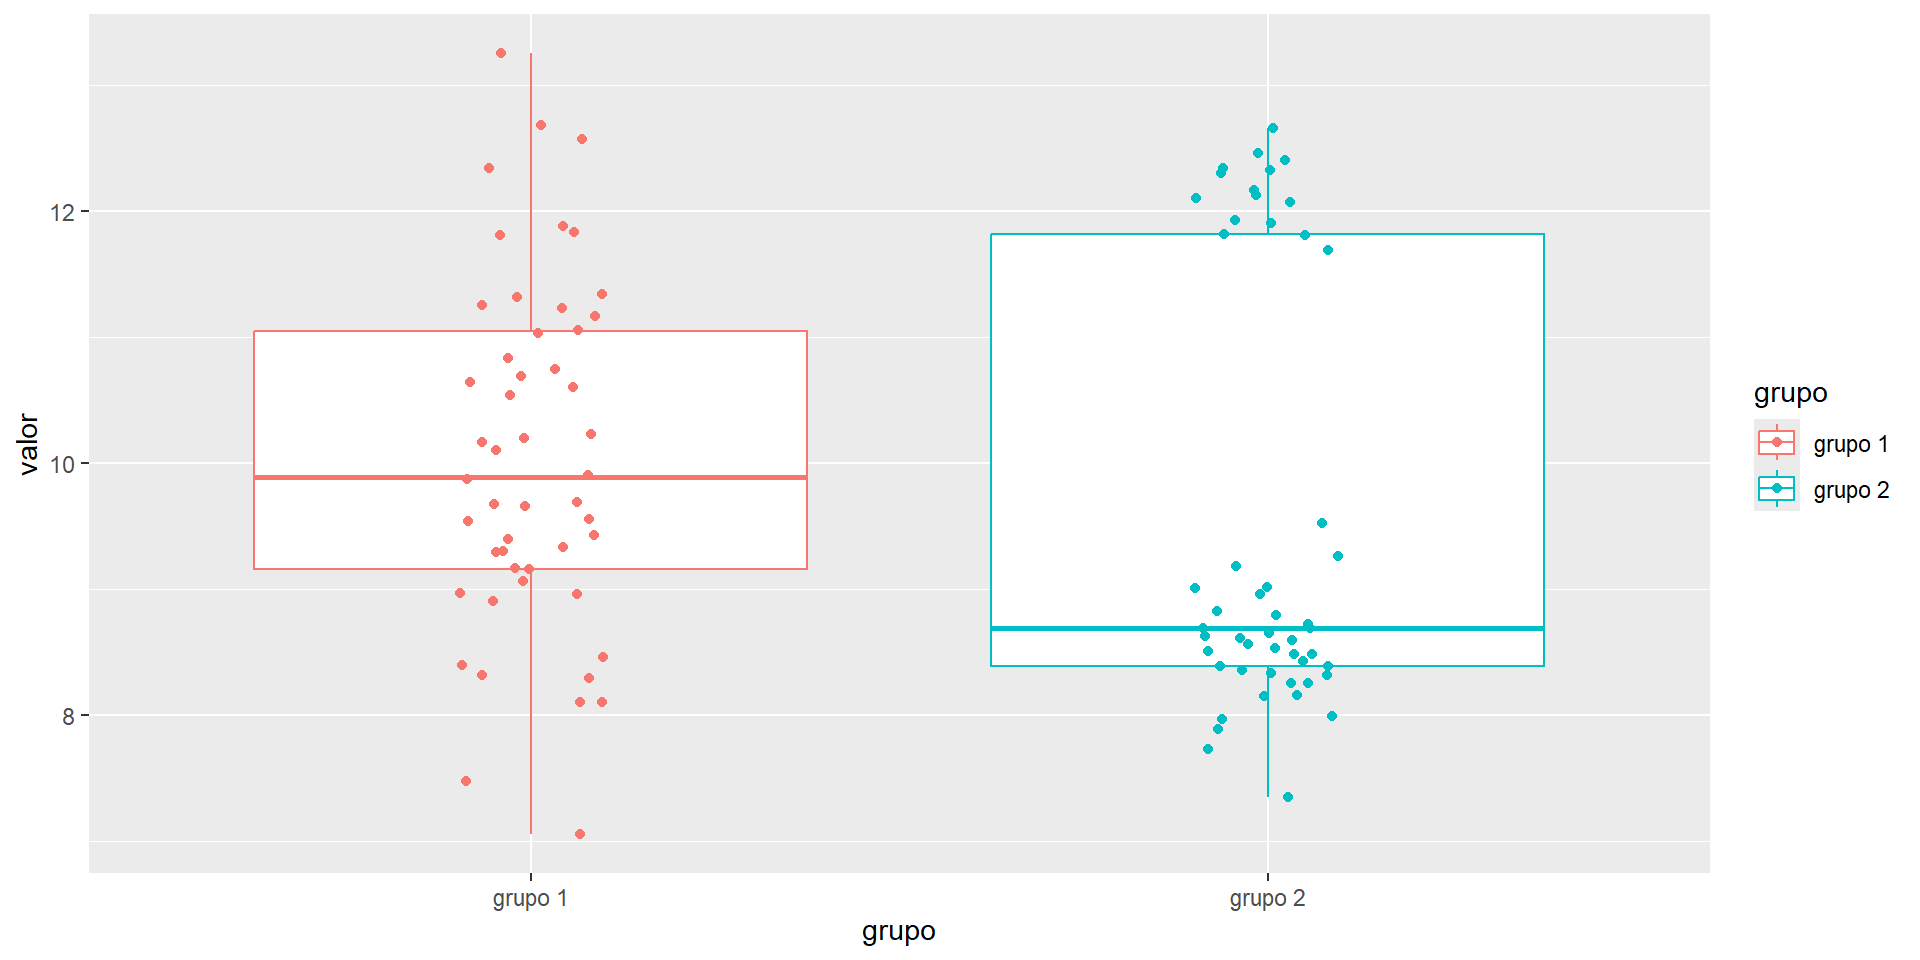
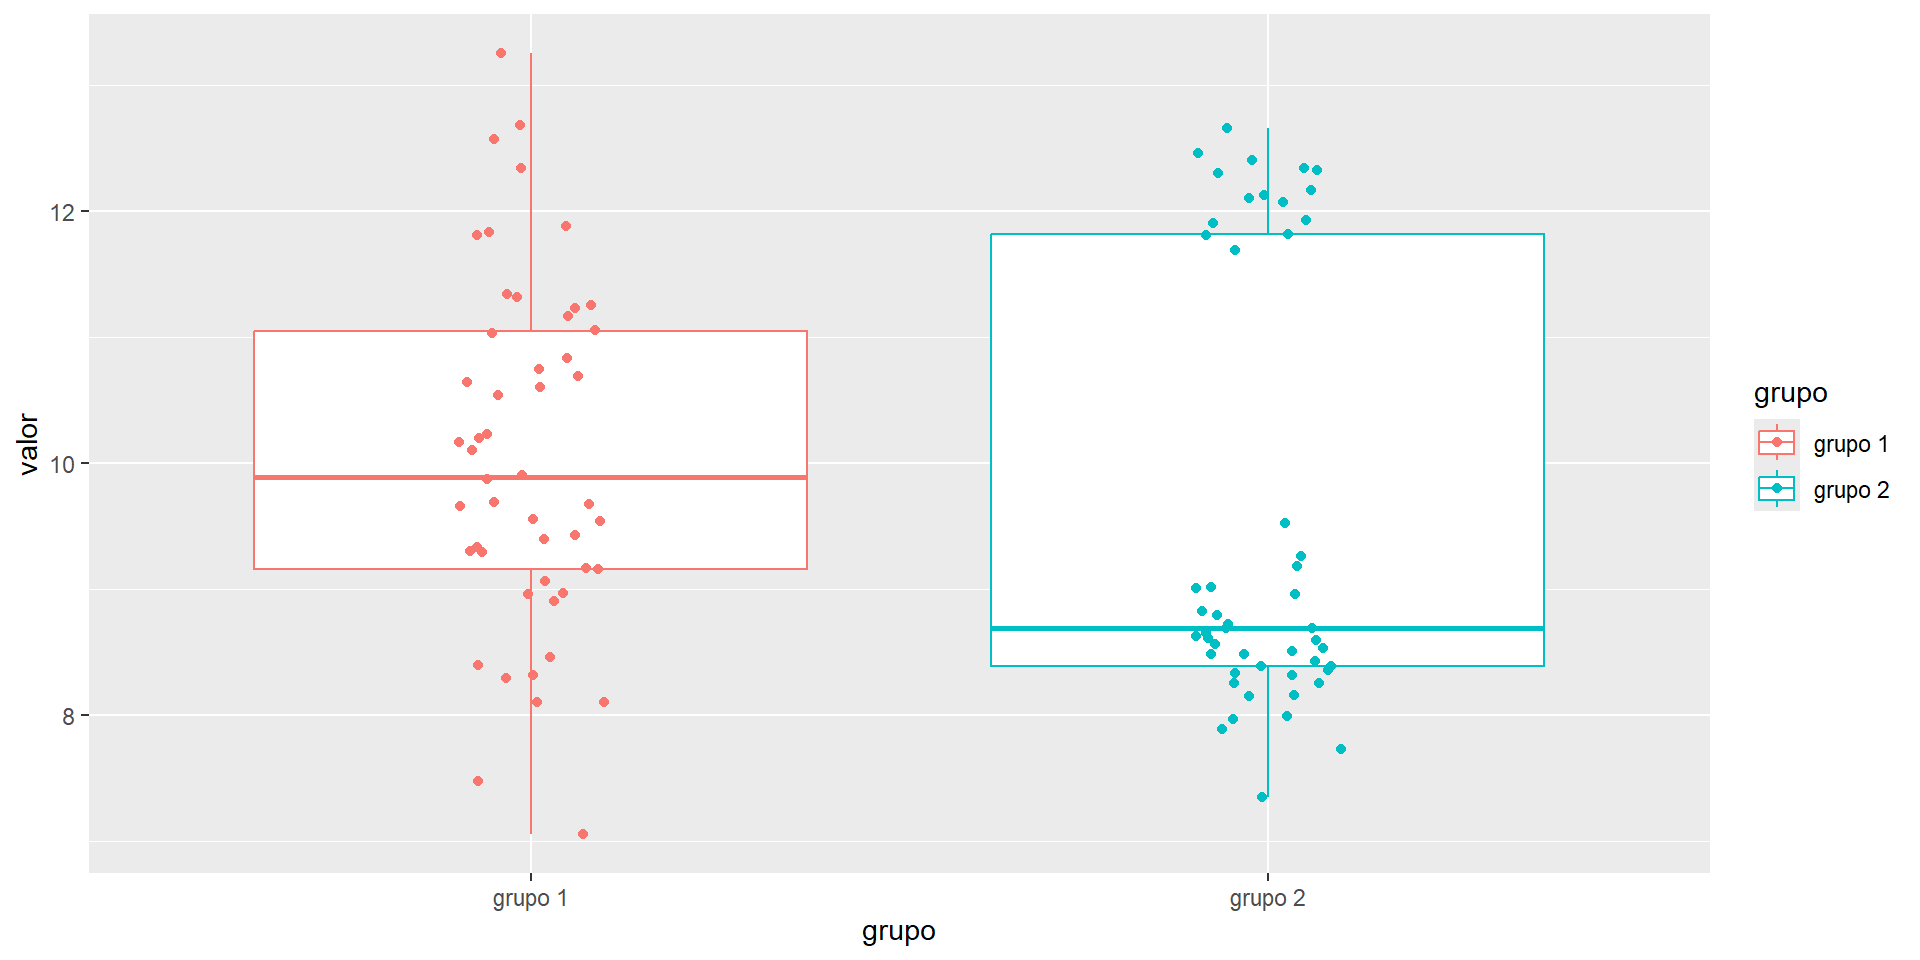
cambio styles en ggplot slides

diff --git a/styles/styles.css b/styles/styles.css
@@ -1,0 +1,293 @@
+
+/*
+CSS for xaringan slides in RU flavor
+Author: Joseph V. Casillas
+Updated: 03/06/2018
+*/
+
+/* Package defaults that we slightly tweak */
+
+a, a > code {
+  color: #cc0033; /* rgb(249, 38, 114) */
+  text-decoration: none;
+}
+
+/* slightly lower and bigger than default */
+.footnote {
+  position: absolute;
+  bottom: 1em;
+  padding-right: 4em;
+  font-size: 95%;
+}
+
+/* important code slightly red */
+.remark-code-line-highlighted {
+  background-color: #FFD3DE !important;
+}
+
+/* color tweak */
+.inverse {
+  background-color: #272822;
+  color: #777872;
+  text-shadow: 0 0 20px #333;
+}
+
+/* slightly spacing change */
+.inverse h1, .inverse h2, .inverse h3 {
+  color: #f3f3f3;
+  line-height: 1.0em;
+}
+
+/* Two-column layout (slightly wider for aspect ration) */
+.left-column {
+  color: #777;
+  width: 25%;
+  height: 92%;
+  float: left;
+}
+
+.left-column h2:last-of-type, .left-column h3:last-child {
+  color: #000;
+}
+
+/* slightly thiner to suppor aspect ration */
+.right-column {
+  width: 70%;
+  float: right;
+  padding-top: 1em;
+}
+
+.pull-left {
+  float: left;
+  width: 45%;
+}
+
+.pull-right {
+  float: right;
+  width: 45%;
+}
+
+.pull-right ~ * {
+  clear: both;
+}
+
+img, video, iframe {
+  max-width: 100%;
+}
+
+blockquote {
+  border-left: solid 5px lightgray;
+  padding-left: 1em;
+}
+
+/* adjust table horizontal spacing */
+th, td {
+    padding:0 15px 0 15px;
+}
+
+/* remove color from tables */
+table {
+  margin: auto;
+  border-top: none;
+  border-bottom: none;
+}
+
+table thead th { border-bottom: none; }
+thead, tfoot, tr:nth-child(even) { background: none; }
+
+/* leave this alone */
+@page { margin: 0; }
+@media print {
+  .remark-slide-scaler {
+    width: 100% !important;
+    height: 100% !important;
+    transform: scale(1) !important;
+    top: 0 !important;
+    left: 0 !important;
+  }
+}
+
+/*~~~~~~~~~~~~~~*/
+/* RU additions */
+/*~~~~~~~~~~~~~~*/
+
+/* Title slide */
+
+/* Add image and change bg color */
+.title-slide {
+  background-image: url(https://github.com/rstudio/hex-stickers/raw/master/SVG/tidyverse.svg?sanitize=true);
+  background-position: 13% 35%;
+  background-size: 95px;
+  background-color: #fff;
+  padding-left: 100px;  /* delete this for 4:3 aspect ratio */
+}
+
+/* H1 fonts */
+.title-slide h1 {
+  color: #515151;
+  padding-top: 250px;
+  font-weight: normal;
+  font-size: 45px;
+  line-height: 0.05;
+  text-align: left;
+  text-shadow: none;
+  padding-bottom: 18px;
+  margin-bottom: 18px;
+}
+
+/* H2 fonts */
+.title-slide h2 {
+  color: #cc0033;
+  font-size: 35px;
+  text-align: left;
+  text-shadow: none;
+  padding-top: 0px;
+  margin-top: 0px;
+}
+
+/* H3 fonts */
+.title-slide h3 {
+  font-size: 28px;
+  font-weight: normal;
+  color: #666666;
+  text-align: left;
+  text-shadow: none;
+  padding: 0px;
+  margin: 0px;
+  line-height: 1;
+}
+
+/* Remove slide count */
+.title-slide .remark-slide-number {
+  text-shadow: none;
+}
+
+/*~~~~~~~~~~~~~~~~~~*/
+/* SECTION DIVIDERS */
+/*~~~~~~~~~~~~~~~~~~*/
+
+/* section divider red */
+.title-slide-section-red {
+  background-color: #cc0033;
+  padding-left: 100px;  /* delete this for 4:3 aspect ratio */
+}
+
+/* section divider red H1 fonts */
+.title-slide-section-red h1, .title-slide-section-red h2, .title-slide-section-red h3, .title-slide-section-red p {
+  color: #fff;
+}
+
+/* section divider grey */
+.title-slide-section-grey {
+  background-color: #515151;
+  padding-left: 100px;  /* delete this for 4:3 aspect ratio */
+}
+
+/* section divider grey H1 fonts */
+.title-slide-section-grey h1, .title-slide-section-grey h2, .title-slide-section-grey h3 {
+  color: #fff;
+}
+
+.title-slide-section-grey p {
+  color: #fff;
+}
+
+/*~~~~~~~~~~~~~~~~~~*/
+/* FINAL SLIDE      */
+/*~~~~~~~~~~~~~~~~~~*/
+
+.title-slide-final {
+  background-color: #272822;
+  color: #fff;
+  padding-left: 100px;
+  text-shadow: 0 0 20px #333;
+  text-align: center;
+}
+
+.title-slide-final h1 {
+  color: #cc0033;
+}
+
+/*~~~~~~~~~~~~~~~~~~~~*/
+/* Global adjustments */
+/*~~~~~~~~~~~~~~~~~~~~*/
+
+/* Add padding to all slides for 16:9 aspect ratio */
+.remark-slide-content {
+  padding-left: 100px;  /* delete this for 4:3 aspect ratio */
+}
+
+/* Color adjustments for text */
+
+/* Make bold syntax compile to RU-red */
+strong {
+  color: #cc0033;
+}
+
+.RUred {
+  color: #cc0033;
+}
+
+/* Add blue tag */
+.blue {
+  color: #0000CC;
+  font-weight: bold;
+}
+
+/* Add grey tag */
+.grey {
+  color: #515151;
+}
+
+.lightgrey {
+  color: #818181;
+}
+
+/* Force black */
+.black {
+  color: black;
+  font-weight: bold;
+}
+
+/* Add white tag */
+.white {
+  color: white;
+}
+
+/* Color adjustments to headers */
+h1 {
+  color: #cc0033;
+}
+
+h3 {
+  color: #515151;
+}
+
+/* Font size tags */
+.big {
+  font-size: 1.5em;
+}
+
+/* ru blockquote */
+ru-blockquote {
+  display: block;
+  margin-top: 1em;
+  margin-bottom: 1em;
+  margin-left: 40px;
+  margin-right: 40px;
+  border-left: solid 10px #cc0033;
+  background-color: #818181;
+  padding: 1em;
+  color: #fff;
+  -moz-border-radius: 5px;
+  -webkit-border-radius: 5px;
+}
+
+/* Logo positioning in bottom-right corner */
+.reveal .slide-logo {
+  position: fixed;
+  bottom: 15px;
+  right: 15px;
+  max-height: 70px; /* Smaller logo size */
+  max-width: 120px;
+}

diff --git a/docs/slides/dplyr.html b/docs/slides/dplyr.html
@@ -479,7 +479,7 @@ Miguel A. Tripp Valdez
 </div></div>
 <div class="cell">
 <div class="cell-output-display">
-<div class="countdown" id="timer_7878c810" data-warn-when="10" data-update-every="1" tabindex="0" style="right:0;bottom:0;">
+<div class="countdown" id="timer_4230447a" data-warn-when="10" data-update-every="1" tabindex="0" style="right:0;bottom:0;">
 <div class="countdown-controls"><button class="countdown-bump-down">−</button><button class="countdown-bump-up">+</button></div>
 <code class="countdown-time"><span class="countdown-digits minutes">05</span><span class="countdown-digits colon">:</span><span class="countdown-digits seconds">00</span></code>
 </div>
@@ -658,7 +658,7 @@ Miguel A. Tripp Valdez
 </div></div>
 <div class="cell">
 <div class="cell-output-display">
-<div class="countdown" id="timer_7f85e9ec" data-warn-when="10" data-update-every="1" tabindex="0" style="right:0;bottom:0;">
+<div class="countdown" id="timer_f79b3108" data-warn-when="10" data-update-every="1" tabindex="0" style="right:0;bottom:0;">
 <div class="countdown-controls"><button class="countdown-bump-down">−</button><button class="countdown-bump-up">+</button></div>
 <code class="countdown-time"><span class="countdown-digits minutes">05</span><span class="countdown-digits colon">:</span><span class="countdown-digits seconds">00</span></code>
 </div>
@@ -711,7 +711,7 @@ Miguel A. Tripp Valdez
 </div>
 <div class="cell">
 <div class="cell-output-display">
-<div class="countdown" id="timer_715cceba" data-warn-when="10" data-update-every="1" tabindex="0" style="right:0;bottom:0;">
+<div class="countdown" id="timer_5dfbd093" data-warn-when="10" data-update-every="1" tabindex="0" style="right:0;bottom:0;">
 <div class="countdown-controls"><button class="countdown-bump-down">−</button><button class="countdown-bump-up">+</button></div>
 <code class="countdown-time"><span class="countdown-digits minutes">05</span><span class="countdown-digits colon">:</span><span class="countdown-digits seconds">00</span></code>
 </div>

diff --git a/docs/slides/ggplot.html b/docs/slides/ggplot.html
@@ -96,7 +96,7 @@
     code span.wa { color: #5e5e5e; font-style: italic; } /* Warning */
   </style>
   <link rel="stylesheet" href="../site_libs/revealjs/dist/theme/quarto.css">
-  <link rel="stylesheet" href="styles/custom.scss">
+  <link rel="stylesheet" href="../styles/custom.scss">
   <link href="../site_libs/revealjs/plugin/quarto-line-highlight/line-highlight.css" rel="stylesheet">
   <link href="../site_libs/revealjs/plugin/reveal-menu/menu.css" rel="stylesheet">
   <link href="../site_libs/revealjs/plugin/reveal-menu/quarto-menu.css" rel="stylesheet">

diff --git a/docs/styles/custom.scss b/docs/styles/custom.scss
@@ -1,0 +1,20 @@
+/* Custom styles for Reveal.js presentation in Quarto with simple theme */
+.reveal {
+  /* Background color (customizable) */
+  background-color: #f5f4f0; /* Light blue background */
+}
+
+
+:root {
+  --slide-max-width: 100%; /* O usa 100% si quieres pantalla completa */
+}
+
+.smaller {
+  font-size: 0.55em;
+}
+
+.medium {
+  font-size: 0.65em;
+  line-height: 1.8;
+}
+

diff --git a/styles/custom.scss b/styles/custom.scss
@@ -1,0 +1,20 @@
+/* Custom styles for Reveal.js presentation in Quarto with simple theme */
+.reveal {
+  /* Background color (customizable) */
+  background-color: #f5f4f0; /* Light blue background */
+}
+
+
+:root {
+  --slide-max-width: 100%; /* O usa 100% si quieres pantalla completa */
+}
+
+.smaller {
+  font-size: 0.55em;
+}
+
+.medium {
+  font-size: 0.65em;
+  line-height: 1.8;
+}
+
